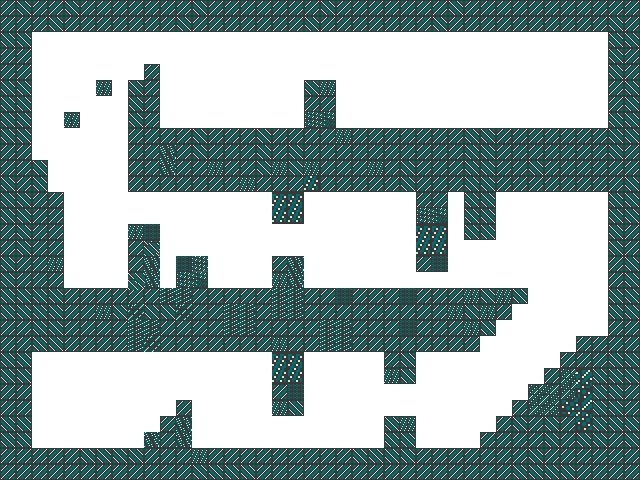
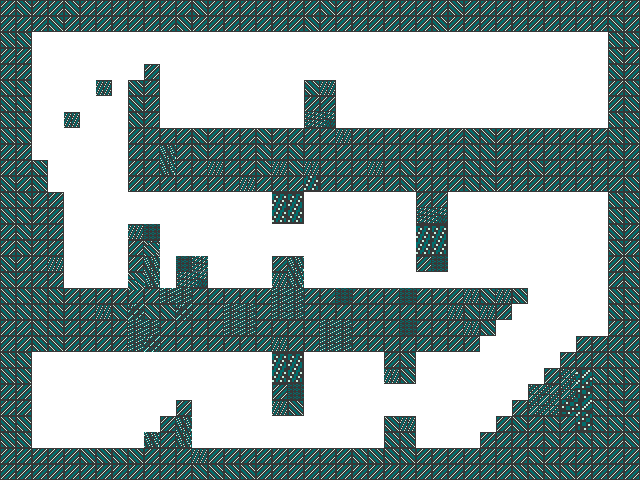
sprite player y audio

Changed region(s): [[0.7188, 0.375, 0.7812, 0.5]]

diff --git a/src/com/team/game/objects/Player.java b/src/com/team/game/objects/Player.java
@@ -13,13 +13,13 @@ import com.team.engine.gfx.ImageTile;
 import com.team.game.GameManager;
 import com.team.game.components.AABBComponent;
 
-/**
+/**a
  * @author Pedro
  *
  */
 public class Player extends GameObject{
 	
-	private ImageTile playerImage = new ImageTile("/player1.png", 16, 16);
+	private ImageTile playerImage = new ImageTile("/player4.png", 16, 16);
 	private SoundClip sonidoDanio = new SoundClip("/Audio/ouch.wav");;
 	
 	private int direction = 0;
@@ -58,9 +58,9 @@ public class Player extends GameObject{
 		this.posY = posY*GameManager.TILE_SIZE;
 		this.width = GameManager.TILE_SIZE;
 		this.height = GameManager.TILE_SIZE;
-		paddingLeft = 4;
-		paddingRight = 3;
-		paddingTop = 3;
+		paddingLeft = 1;
+		paddingRight = 2;
+		paddingTop = 0;
 		paddingBot = 0;
 
 		sonidoDanio.setVolume(-30);
@@ -128,13 +128,14 @@ public class Player extends GameObject{
 				pressY = gc.getInput().getMouseY();
 			}
 			
+			
 			if(gc.getInput().isButtonUp(MouseEvent.BUTTON1) && (gc.getInput().getMouseY()-pressY) > 0) {
 				distX = gc.getInput().getMouseX()-pressX;
 				distY = gc.getInput().getMouseY()-pressY;
 				angulo = (float) Math.atan(distY/distX);
 				fuerza = (float) Math.hypot(distX, distY)/5;
-				if(fuerza > 7)
-					fuerza = 7;
+				if(fuerza > 7.5f)
+					fuerza = 7.5f;
 				if(angulo > 0)
 					angulo += Math.PI;
 				megaSaltando = true;
@@ -266,13 +267,13 @@ public class Player extends GameObject{
 			distY2 = gc.getInput().getMouseY()-pressY;
 			angulo2 = (float) Math.atan(distY2/distX2);
 			fuerza2 = (float) Math.hypot(distX2, distY2)/5;
-			if(fuerza2 > 7)
-				fuerza2 = 7;
+			if(fuerza2 > 7.5f)
+				fuerza2 = 7.5f;
 			if(angulo2 > 0)
 				angulo2 += Math.PI;
 			for(float T=(float) 0.5; T<1.5; T+=0.033) {
-				posX2 +=  (fuerza2*Math.cos(angulo2))*1.2;
-				posY2 += (fuerza2*Math.sin(angulo2)*2 + ((fallSpeed*T))*1.3);
+				posX2 +=  (fuerza2*Math.cos(angulo2));
+				posY2 += (fuerza2*Math.sin(angulo2)*1.7 + ((fallSpeed*T)*0.9));
 				renderer.drawFillRect( (int)posX2, (int)posY2, 1, 1, 0xff939393);
 			}
 		}

diff --git a/src/com/team/game/objects/Diana.java b/src/com/team/game/objects/Diana.java
@@ -6,6 +6,7 @@ package com.team.game.objects;
 import com.team.engine.GameContainer;
 import com.team.engine.Renderer;
 import com.team.engine.State;
+import com.team.engine.audio.SoundClip;
 import com.team.engine.gfx.ImageTile;
 import com.team.game.GameManager;
 import com.team.game.components.AABBComponent;
@@ -20,6 +21,9 @@ public class Diana extends GameObject{
 	private float animacion;
 	private boolean animar;
 	
+	private SoundClip sonidoDiana = new SoundClip("/Audio/Mario-coin-sound.wav");;
+	
+	
 	public Diana(int x, int y, int facing) {
 		this.tag = "diana";
 		this.posX = x*GameManager.TILE_SIZE;
@@ -32,6 +36,7 @@ public class Diana extends GameObject{
 		this.paddingTop = 7;
 		animacion = 0;
 		animar = false;
+		sonidoDiana.setVolume(-30);
 		
 		switch(facing) {
 		case 0:
@@ -50,11 +55,13 @@ public class Diana extends GameObject{
 	public void update(GameContainer gc, GameManager gm, float dt) {
 		if(animacion>3 && !gm.isLevelTerminado()) {
 			try {
+				sonidoDiana.start();
 				Thread.sleep(500);
 			} catch (InterruptedException e) {
 				// TODO Auto-generated catch block
 				e.printStackTrace();
 			}
+			
 			gm.setLevelTerminado(true);
 			gc.setLevelSeleccionado(gc.getLevelSeleccionado()+1);
 		}
@@ -76,6 +83,7 @@ public class Diana extends GameObject{
 	public void collision(GameObject other) {
 		if(other.getTag().equalsIgnoreCase("player")) {
 			animar = true;
+			
 		}	
 	
 	}

diff --git a/src/com/team/game/objects/Flag.java b/src/com/team/game/objects/Flag.java
@@ -5,6 +5,7 @@ package com.team.game.objects;
 
 import com.team.engine.GameContainer;
 import com.team.engine.Renderer;
+import com.team.engine.audio.SoundClip;
 import com.team.engine.gfx.ImageTile;
 import com.team.game.GameManager;
 import com.team.game.components.AABBComponent;
@@ -15,6 +16,7 @@ import com.team.game.components.AABBComponent;
  */
 public class Flag extends GameObject{
 	private ImageTile flag = new ImageTile("/Objetos/flag.png", 32, 32);
+	private SoundClip sonidoFlag = new SoundClip("/Audio/Mario-coin-sound.wav");;
 	
 	private float animacion;
 	private boolean animar;
@@ -31,7 +33,7 @@ public class Flag extends GameObject{
 		this.paddingTop = 20;
 		animacion = 0;
 		animar = false;
-		
+		sonidoFlag.setVolume(-30);
 		this.addComponent(new AABBComponent(this));
 	}
 
@@ -40,6 +42,7 @@ public class Flag extends GameObject{
 		if(animar && animacion<3) {
 			animacion += dt*5;
 			paddingTop = 4;
+			sonidoFlag.start();
 		}
 		
 		this.updateComponents(gc, gm, dt);
@@ -55,6 +58,7 @@ public class Flag extends GameObject{
 	public void collision(GameObject other) {
 		if(other.getTag().equalsIgnoreCase("player")) {
 			animar = true;
+			
 		}
 		
 	}

diff --git a/src/com/team/game/objects/Flecha.java b/src/com/team/game/objects/Flecha.java
@@ -5,6 +5,7 @@ package com.team.game.objects;
 
 import com.team.engine.GameContainer;
 import com.team.engine.Renderer;
+import com.team.engine.audio.SoundClip;
 import com.team.game.GameManager;
 
 /**
@@ -15,6 +16,7 @@ public class Flecha extends GameObject{
 	
 	private int tileX, tileY;
 	private float offsetX, offsetY;
+
 	
 	private float speed = 200;
 	private int direction;
